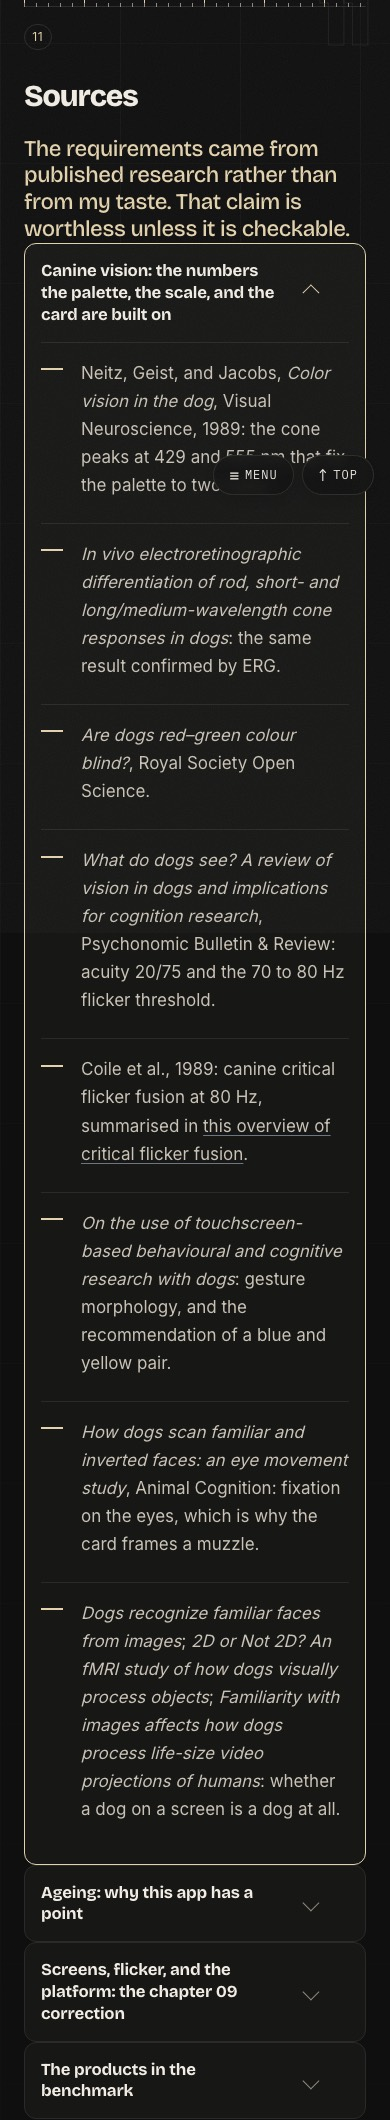
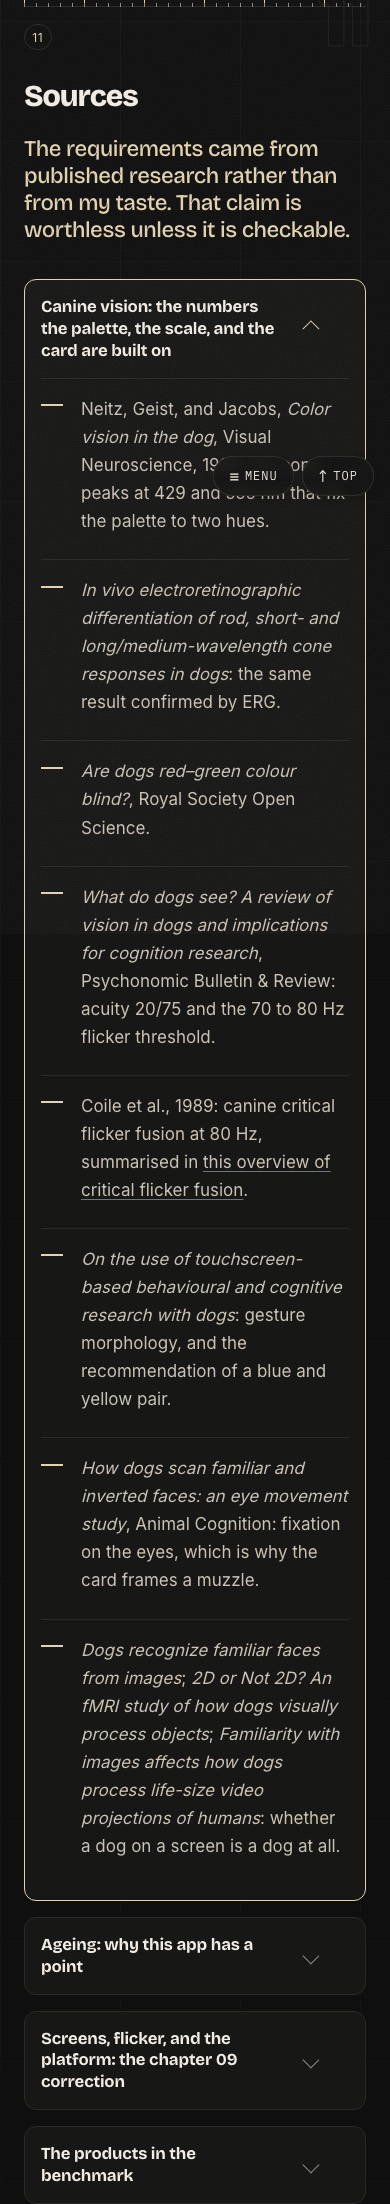
fix(work): Tinder for Chihuahua - poprawki po review
Deep link do kafelka dossier przewija do niego (id kafelka to slug), odstepy
nad szufladami zrodel, "0 numbers in the document typed by hand" wraca w pelnym
brzmieniu, CIG-2.3 zamiast CIG-3.2, liczby w komentarzach i w PLAN.md zgodne z
plikiem. Znana luka: plansze maja wydrukowany stary numer rozdzialu, do
odnowienia w repo aplikacji.

Changed region(s): [[0.0615, 0.0311, 0.8923, 1.0], [0.7385, 0.1557, 0.8308, 0.2179]]

diff --git a/site/src/content/chihuahua.ts b/site/src/content/chihuahua.ts
@@ -8,13 +8,14 @@ import type { CaseStudy } from "./types";
  * (research to tokens to guidelines to a working build) on a brief absurd
  * enough that every shortcut shows. That is what `practice` is for.
  *
- * Cut to about 2000 words in October 2026, from about 6000: a reader gets the
- * phases, the tools and the reasoning on the surface, and opens the rest.
+ * Cut in October 2026 from about 4700 words on the surface to about 2200: a
+ * reader gets the phases, the tools and the reasoning, and opens the rest.
  * Chapters run 00 to 11. The panel files keep their original numbers (ch02 to
  * ch12) because the app repo generates them. The two journeys and the
  * blueprint are three tiles of one dossier under 04, dog mode and human mode
- * two tiles under 08. The old chapter ids survive as tile ids, so the deep
- * links still open them.
+ * two tiles under 08. The three old chapter ids survive as tile ids, and the
+ * dossier opens and scrolls to a tile named in the hash, so the deep links
+ * still land.
  *
  * Panels are the same 1800px exports the repo uses, in English. Every chapter
  * that carries one has it; nothing stands as a placeholder.
@@ -410,7 +411,7 @@ export const chihuahua: CaseStudy = {
             { value: "34", label: "laws: 29 canine, 5 platform" },
             { value: "6", label: "groups, from palette to platform" },
             { value: "2", label: "recorded departures from the HIG" },
-            { value: "0", label: "numbers typed by hand" },
+            { value: "0", label: "numbers in the document typed by hand" },
           ],
         },
         {
@@ -429,7 +430,7 @@ export const chihuahua: CaseStudy = {
           caption: "Three of the thirty-four.",
           rows: [
             { key: "CIG-2.1", value: "Meaning is carried by blue and acid only. Black and white are ground and figure, never signal" },
-            { key: "CIG-3.2", value: "Dog-scale display type is 112 px, names 80 px, values 44 px. Minimum target: 214 × 300 px" },
+            { key: "CIG-2.3", value: "Dog-scale display type is 112 px, names 80 px, values 44 px. Minimum target: 214 × 300 px" },
             { key: "CIG-5.1", value: "A deck is 6 to 12 cards. A rising decision time is the signal to shorten it, not to add cards" },
           ],
         },
@@ -502,7 +503,7 @@ export const chihuahua: CaseStudy = {
                   kind: "points",
                   items: [
                     "<strong>Same handset, a different register.</strong> 26 px statistics instead of 112 px display type, 44 px targets instead of 214 px zones, real density, prose. It obeys the HIG because a person is using it.",
-                    "<strong>The door between the modes cannot be a button.</strong> A button big enough for a person to find is a button a dog will eventually stand on. So: a two-finger gesture with a wide spread, only on D5. Nothing about a nose produces two contact points that far apart.",
+                    "<strong>The door between the modes cannot be a button.</strong> A button big enough for a person to find is a button a dog will eventually stand on. The door is a two-finger gesture with a wide spread, and it works only on D5. Nothing about a nose produces two contact points that far apart.",
                     "<strong>H1 carries the sentence the product hangs on:</strong> this is a preference signal, not a match. The likeliest failure is a human over-reading the ranking, so the interface says so where it cannot be missed.",
                   ],
                 },
@@ -590,7 +591,7 @@ export const chihuahua: CaseStudy = {
         {
           kind: "points",
           items: [
-            "<strong>Fifty values were publishing the word “undefined”.</strong> 47 of 53 token lookups would silently emit <code>undefined</code> into the guidelines and exit successfully. The build guard exists because of this.",
+            "<strong>Forty-seven values were publishing the word “undefined”.</strong> 47 of 53 token lookups would silently emit <code>undefined</code> into the guidelines and exit successfully. The build guard exists because of this.",
             "<strong>I overclaimed and had to walk it back.</strong> “Three departures from the HIG” was two. “29 laws” had omitted five. “Everything derives from ×4”: the factor is 3.75. Each read beautifully and none survived being checked.",
             "<strong>One of my laws described the wrong variable</strong>, and survived being written, designed for, and built. I only went looking because the number disagreed with me.",
           ],

diff --git a/site/src/system/Text.tsx b/site/src/system/Text.tsx
@@ -17,21 +17,22 @@ export function Points({ items, fold }: { items: string[]; fold?: string }) {
   const { ref, shown } = useReveal<HTMLUListElement>();
   const [open, setOpen] = useState(false);
   const id = useId();
+  // A folded list is revealed by its drawer, not by scrolling into view.
   const list = (
-    <ul ref={ref} className={shown || fold ? "points is-shown" : "points"}>
+    <ul ref={fold ? undefined : ref} className={shown || fold ? "points is-shown" : "points"}>
       {items.map((item, i) => (
         <li key={item} style={{ transitionDelay: `${i * 90}ms` }} dangerouslySetInnerHTML={{ __html: item }} />
       ))}
     </ul>
   );
   if (fold) {
-    // The same drawer a folded diagram uses, so a reader learns one control.
+    // The drawer a folded Shot uses, so a reader learns one control.
     return (
       <Lane width="wall">
         <div className={["drawer drawer--text is-shown", open ? "is-open" : ""].join(" ")}>
           <button type="button" className="drawer__head" aria-expanded={open} aria-controls={`${id}-body`} onClick={() => setOpen((v) => !v)}>
             <span className="drawer__title">{fold}</span>
-            <span className="drawer__hint" aria-hidden="true">{open ? "Close" : `Open: ${items.length}`}</span>
+            <span className="drawer__hint" aria-hidden="true">{open ? "Close" : `Open the list (${items.length})`}</span>
             <span className="drawer__chevron" aria-hidden="true" />
           </button>
           <div id={`${id}-body`} className="drawer__body passage passage--points" hidden={!open}>

diff --git a/site/src/system/Dossier.tsx b/site/src/system/Dossier.tsx
@@ -71,7 +71,9 @@ export function Dossier({ items, render }: { items: DossierData[]; render: (b: B
               key={d.id}
               type="button"
               role="tab"
-              id={`${base}-tab-${i}`}
+              // The tile id is the hash target, so a deep link scrolls here
+              // (ScrollToTop) as well as opening the tile (the effect above).
+              id={d.id}
               aria-selected={open === i}
               aria-controls={`${base}-wing`}
               className={open === i ? "dossier__tile is-current" : "dossier__tile"}
@@ -89,7 +91,7 @@ export function Dossier({ items, render }: { items: DossierData[]; render: (b: B
           ))}
         </div>
 
-        <div id={`${base}-wing`} role="tabpanel" aria-labelledby={open === null ? undefined : `${base}-tab-${open}`} className="dossier__wing" hidden={!current}>
+        <div id={`${base}-wing`} role="tabpanel" aria-labelledby={current ? current.id : undefined} className="dossier__wing" hidden={!current}>
           {current && (
             <>
               <aside className="dossier__spine">

diff --git a/site/src/styles/case.css b/site/src/styles/case.css
@@ -1033,6 +1033,10 @@
 }
 /* A drawer with no thumbnail: a folded list. The title takes the thumb column too. */
 .drawer--text .drawer__head { grid-template-columns: 1fr auto auto; }
+/* A tile is a hash target (Dossier.tsx), so it clears the sticky bar like a chapter head. */
+.dossier__tile { scroll-margin-top: var(--bh-space-6); }
+.drawer--text { margin-top: var(--bh-space-3); }
+.chapter__head + .lane .drawer--text { margin-top: calc(var(--bh-beat-block) * 1.5); }
 .drawer--text .drawer__body { padding-top: 0; }
 .drawer--text .drawer__body .points { margin-top: 0; }
 .drawer__thumb { display: block; aspect-ratio: 16 / 10; overflow: hidden; border-radius: 6px; background: #fff; }

diff --git a/site/src/content/types.ts b/site/src/content/types.ts
@@ -270,8 +270,8 @@ export type Block =
   /**
    * `fold` is the head of a drawer the list sits behind: the reader sees the
    * head and opens the list on demand. For lists a reader asks for rather
-   * than reads, such as a bibliography. The only copy of a fact that
-   * matters never lives behind one.
+   * than reads, such as a bibliography. Authoring rule, not enforced here:
+   * the only copy of a fact that matters never lives behind one.
    */
   | { kind: "points"; items: string[]; fold?: string }
   | ({ kind: "shot"; width?: Width } & Shot)

diff --git a/docs/chihuahua/PLAN.md b/docs/chihuahua/PLAN.md
@@ -7,7 +7,7 @@ why, so the next study can be checked against the same rule.
 
 ## Target
 
-The three-reader rule from `docs/case-study-kit/RULES.md`:
+The three-reader rule, adapted from `docs/case-study-kit/RULES.md`:
 
 | Pass | Reader | Time | Takes away |
 | --- | --- | --- | --- |
@@ -29,7 +29,7 @@ behind one click or gone.
 
 Counted from the content file: everything a reader sees without opening a
 drawer, a dossier tile, or a hotspot, including captions, persona cards and
-the metadata strip. The lead and metadata alone are 116 words.
+the metadata strip. The lead and metadata alone are about 110 words.
 
 ## The spine
 
@@ -39,8 +39,9 @@ Five phases, each with one artefact and one sentence about the reasoning:
    constraints.
 2. **Research and personas** (02, 03): ten findings with their
    requirements; "Design for Auri, test with Karmel".
-3. **The service** (04): one risk from the blueprint and the three numbers
-   it produced; the two journeys and the blueprint as dossier tiles.
+3. **The service and the market** (04, 05): one risk from the blueprint and
+   the three numbers it produced; the two journeys and the blueprint as
+   dossier tiles; the benchmark as two families and a gap.
 4. **Rules and screens** (06, 07, 08): three directions, 34 laws, the
    two-hue palette, the session video.
 5. **Measurement and correction** (09, 09a, 10): the flicker law a
@@ -52,22 +53,26 @@ Five phases, each with one artefact and one sentence about the reasoning:
 | --- | --- | --- |
 | meta, 7 rows | 5 rows | Frame dropped; Live and Source merged |
 | 00 In short | 00 | Rows trimmed towards 20 words |
-| 01 The promise | 01 | Two passages and two bullet lists became one passage and three bullets; the constraints table dropped because 01a says the same |
+| 01 The promise | 01 | Two passages and two bullet lists became one passage and two bullets; the constraints table dropped because 01a says the same |
 | 01a Hard brief | 01a | Kept; each bullet one sentence |
 | 02 Who it is for | 02 | Four bullets dropped (they repeated 01a); the research panel stays visible as the evidence |
-| 03 Personas | 03 | Both passages cut; persona cards shortened |
+| 03 Personas | 03 | One passage cut, the other shortened; persona cards shortened |
 | 04, 05, 06 journeys and blueprint | 04 The service | Merged. The wet-nose risk table on the surface, three panels as dossier tiles. Old ids live on as tile ids |
 | 07 Benchmark | 05 | Second table and two passages became three bullets; panel folded |
 | 08 Directions | 06 | Captions shortened |
-| 09 CIG | 07 | Passage became two bullets; five laws became three; palette notes cut |
+| 09 CIG | 07 | Passage became two bullets; five laws became three; two of four palette notes cut |
 | 10 Modes | 08 | Passages inside the tiles became bullets |
 | 12 Testing | 09 | Opening three questions dropped (they are in 10); correction story kept as a thesis and four bullets |
 | 12a Pipeline | 09a Tools and pipeline | Stack kept whole; passage cut to one sentence |
 | 13 What it cost | 10 | Five confessions became three; "Why this is on the site" dropped (00 says it); joint trimmed to three |
 | 14 Sources | 11 | Four drawers, closed by default, one per group |
 
-Panel files keep their original numbers (`ch04` to `ch12`) because the app
-repo generates them.
+Panel files keep their original numbers (`ch02` to `ch12`) because the app
+repo generates them. Each panel also prints its old chapter number in its
+kicker ("CHAPTER 09 · CIG 1.0"), so until the panels are regenerated in the
+app repo with the new numbers, the kicker on a panel and the chapter it
+sits in disagree. Known gap; the fix belongs in the Tinder-for-chihuahua
+repo.
 
 ## One change to the block set
 
@@ -82,7 +87,7 @@ checking, not reading.
 - `tsc --noEmit`, `npm run check`, `npm run build`: clean.
 - No horizontal scroll at 1440 or 390.
 - Every chapter id opens from a hash; `#journey-dog`, `#blueprint`,
-  `#dog-mode` and `#human-mode` open their tile.
+  `#dog-mode` and `#human-mode` open their tile and scroll to it.
 - Grep for em dashes, arrows, "there is", "screenshot of" and American
   spellings: nothing.
 
